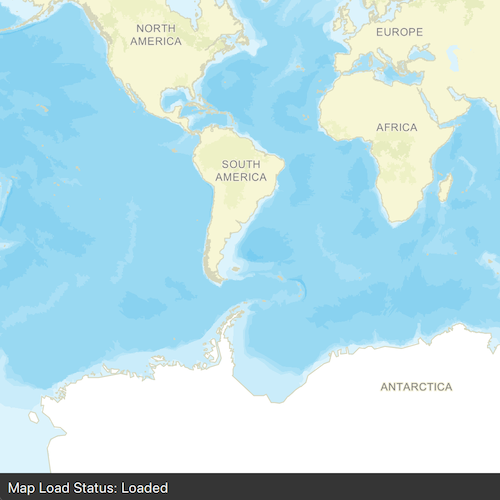
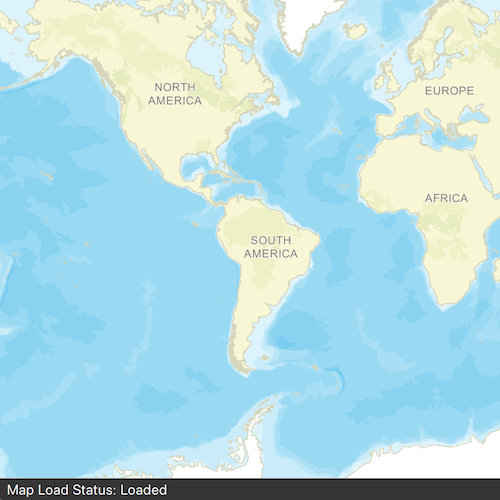
MapLoaded(Maps) - Reduced height and changed background color

diff --git a/CppSamples/Maps/MapLoaded/MapLoaded.qml b/CppSamples/Maps/MapLoaded/MapLoaded.qml
@@ -41,11 +41,11 @@ MapLoadedSample {
             right: parent.right
             bottom: parent.bottom
         }
-        height: 30
+        height: 24
         color: palette.base
         border {
             width: 0.5
-            color: "black"
+            color: "darkgrey"
         }
 
         Label {
